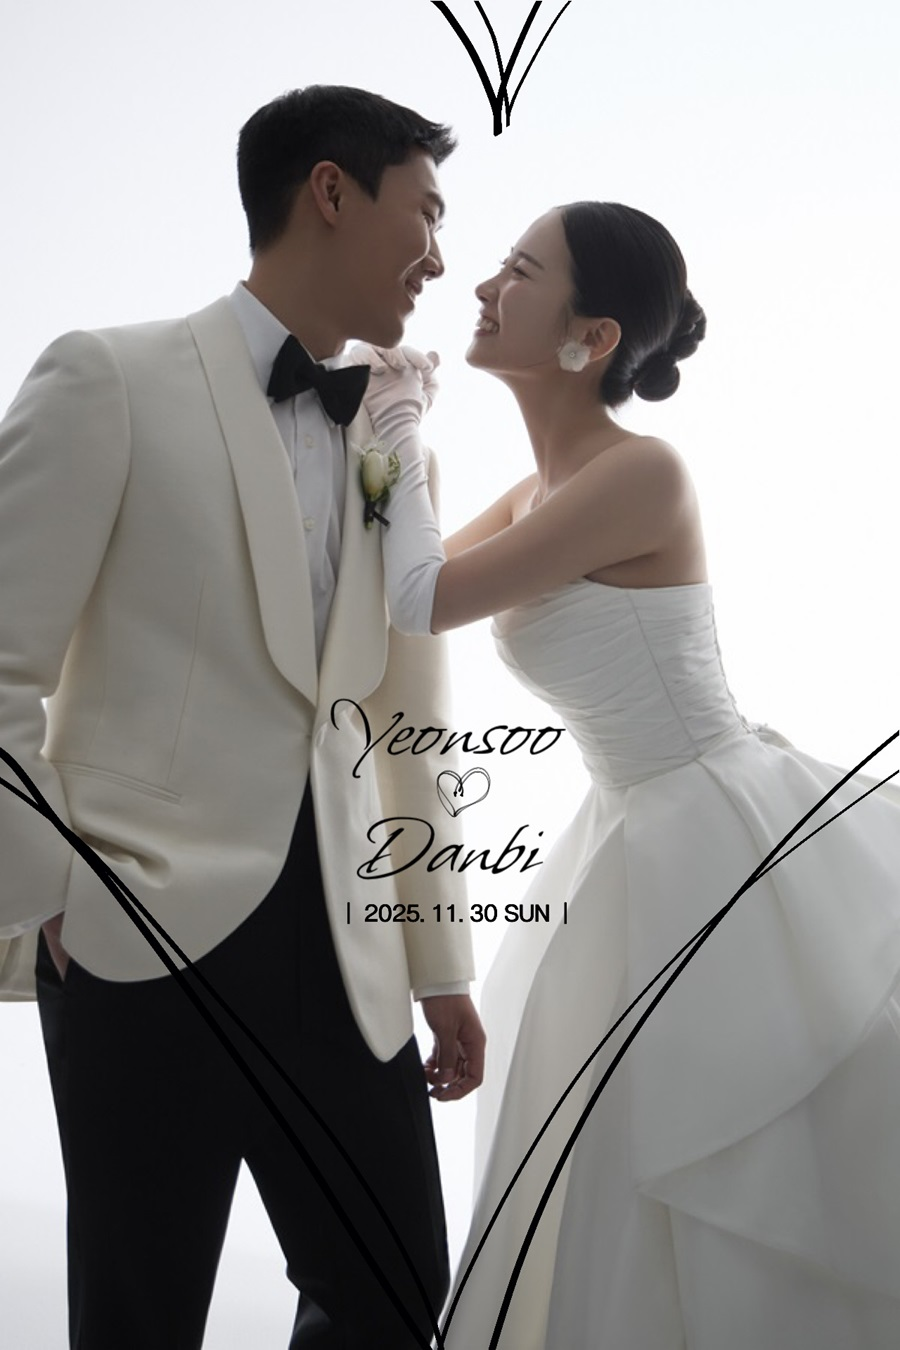
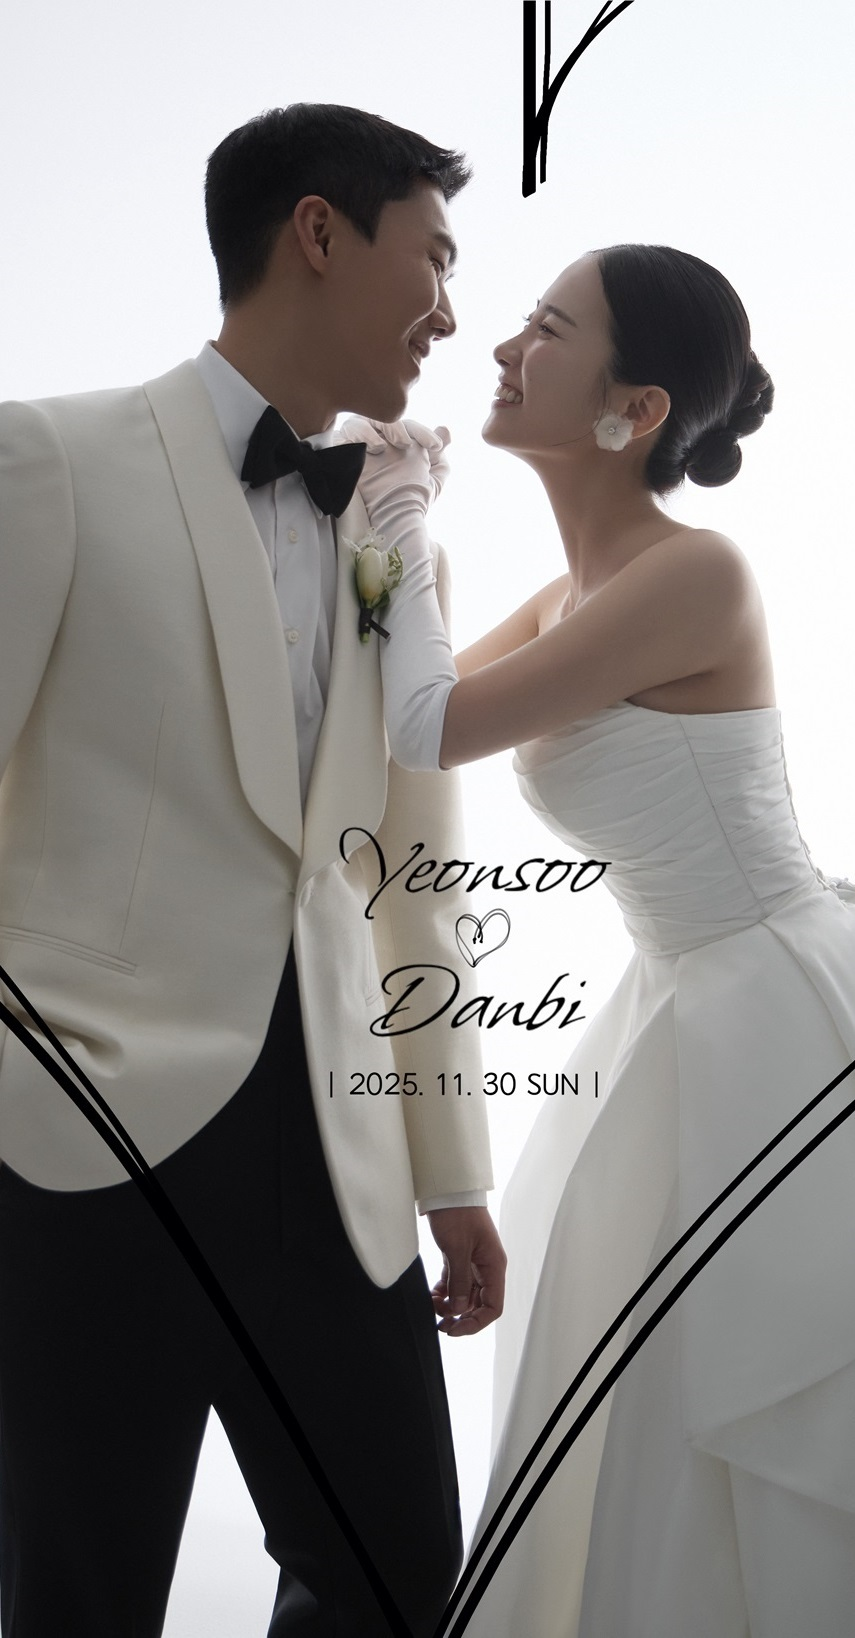
Change img and add copy popup

diff --git a/js/contact.js b/js/contact.js
@@ -19,12 +19,46 @@ document.querySelectorAll('.contact-modal').forEach(modal => {
 
 function copyToClipboard(text) {
   navigator.clipboard.writeText(text).then(function() {
-    alert("계좌번호가 복사되었습니다: " + text);
+    showToast("복사되었습니다");
   }, function(err) {
-    alert("복사 실패: " + err);
+    showToast("복사 실패: " + err);
   });
 }
 
 function closeContactModal(id) {
   document.getElementById(id).style.display = "none";
+}
+
+// Toast helper
+function ensureToastContainer() {
+  var existing = document.getElementById('toastContainer');
+  if (existing) return existing;
+  var container = document.createElement('div');
+  container.id = 'toastContainer';
+  container.className = 'toast-container';
+  document.body.appendChild(container);
+  return container;
+}
+
+function showToast(message, options) {
+  var opts = options || {};
+  var durationMs = typeof opts.duration === 'number' ? opts.duration : 1800;
+  var container = ensureToastContainer();
+
+  var toast = document.createElement('div');
+  toast.className = 'toast-message';
+  toast.textContent = message;
+  container.appendChild(toast);
+
+  // trigger animation
+  requestAnimationFrame(function() {
+    toast.classList.add('show');
+  });
+
+  setTimeout(function() {
+    toast.classList.remove('show');
+    setTimeout(function() {
+      if (toast.parentNode) toast.parentNode.removeChild(toast);
+    }, 400);
+  }, durationMs);
 }

diff --git a/index.html b/index.html
@@ -356,11 +356,11 @@
               <div class="contact-account-top">
                 <span class="contact-label">아버지</span>
                 <span class="contact-value">임종용</span>
-                <button class="contact-copy-btn" onclick="copyToClipboard('번호1')">복사하기</button>
+                <button class="contact-copy-btn" onclick="copyToClipboard('농협 734-02-172516')">복사하기</button>
               </div>
               <div class="contact-account-bottom">
-                <span class="contact-label">하나은행</span>
-                <span class="contact-value">12112545965235</span>
+                <span class="contact-label">농협은행</span>
+                <span class="contact-value">734-02-172516</span>
               </div>
             </div>
           </div>

diff --git a/js/footer.js b/js/footer.js
@@ -32,10 +32,18 @@ Kakao.Share.createDefaultButton({
 document.getElementById('link-copy-btn').addEventListener('click', function() {
   navigator.clipboard.writeText(window.location.href)
     .then(() => {
-      alert('링크가 복사되었습니다!');
+      if (typeof showToast === 'function') {
+        showToast('링크가 복사되었습니다!');
+      } else {
+        try { alert('링크가 복사되었습니다!'); } catch (e) {}
+      }
     })
     .catch(err => {
       console.error('링크 복사 실패:', err);
-      alert('복사에 실패했습니다.');
+      if (typeof showToast === 'function') {
+        showToast('복사에 실패했습니다.');
+      } else {
+        try { alert('복사에 실패했습니다.'); } catch (e) {}
+      }
     });
 });

diff --git a/css/main.css b/css/main.css
@@ -27,6 +27,39 @@ body {
   overflow-x: hidden;
 }
 
+/* Toast (bottom popup) */
+.toast-container {
+  position: fixed;
+  left: 0;
+  right: 0;
+  bottom: 0;
+  display: flex;
+  flex-direction: column;
+  align-items: center;
+  gap: 0.5rem;
+  pointer-events: none;
+  z-index: 10000;
+}
+
+.toast-message {
+  background: rgba(34, 34, 34, 0.92);
+  color: #fff;
+  padding: 0.7rem 1rem;
+  margin: 0.5rem;
+  border-radius: 0.75rem;
+  font-size: clamp(0.9rem, 3vw, 1rem);
+  box-shadow: 0 6px 16px rgba(0,0,0,0.2);
+  transform: translateY(120%);
+  opacity: 0;
+  pointer-events: auto;
+  transition: transform 0.4s ease, opacity 0.4s ease;
+}
+
+.toast-message.show {
+  transform: translateY(0);
+  opacity: 1;
+}
+
 .container {
   width: 100%;
   max-width: 600px;
